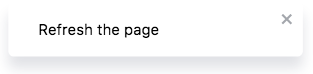
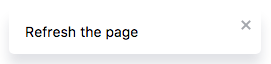
Rename classes

Changed region(s): [[0.0886, 0.3125, 0.5314, 0.625], [0.0295, 0.75, 0.9446, 0.8438], [0.8856, 0.1875, 0.9446, 0.4688]]

diff --git a/notifier.js b/notifier.js
@@ -1,4 +1,4 @@
-var notifier=function(e){function t(i){if(n[i])return n[i].exports;var r=n[i]={i:i,l:!1,exports:{}};return e[i].call(r.exports,r,r.exports,t),r.l=!0,r.exports}var n={};return t.m=e,t.c=n,t.i=function(e){return e},t.d=function(e,n,i){t.o(e,n)||Object.defineProperty(e,n,{configurable:!1,enumerable:!0,get:i})},t.n=function(e){var n=e&&e.__esModule?function(){return e.default}:function(){return e};return t.d(n,"a",n),n},t.o=function(e,t){return Object.prototype.hasOwnProperty.call(e,t)},t.p="",t(t.s=2)}([function(e,t,n){"use strict";e.exports=function(){var e={wrapper:"cdx-notifies",notification:"cdx-notifies__notification",crossBtn:"cdx-notifies__cross",okBtn:"cdx-notifies__button--confirm",cancelBtn:"cdx-notifies__button--cancel",input:"cdx-notifies__input",btn:"cdx-notifies__button",btnsWrapper:"cdx-notifies__btns-wrapper"},t=function(t){var n=document.createElement("DIV"),i=document.createElement("DIV"),r=t.message,c=t.style;return n.classList.add(e.notification),c&&n.classList.add(e.notification+"--"+c),n.innerHTML=r,i.classList.add(e.crossBtn),i.addEventListener("click",n.remove.bind(n)),n.appendChild(i),n};return{alert:t,confirm:function(n){var i=t(n),r=document.createElement("div"),c=document.createElement("button"),o=document.createElement("button"),a=i.querySelector(e.crossBtn),d=n.cancelHandler,s=n.okHandler;return r.classList.add(e.btnsWrapper),c.innerHTML=n.okText||"Confirm",o.innerHTML=n.cancelText||"Cancel",c.classList.add(e.btn),o.classList.add(e.btn),c.classList.add(e.okBtn),o.classList.add(e.cancelBtn),d&&"function"==typeof d&&(o.addEventListener("click",d),a.addEventListener("click",d)),s&&"function"==typeof s&&c.addEventListener("click",s),c.addEventListener("click",i.remove.bind(i)),o.addEventListener("click",i.remove.bind(i)),r.appendChild(c),r.appendChild(o),i.appendChild(r),i},prompt:function(n){var i=t(n),r=document.createElement("div"),c=document.createElement("button"),o=document.createElement("input"),a=i.querySelector(e.crossBtn),d=n.cancelHandler,s=n.okHandler;return r.classList.add(e.btnsWrapper),c.innerHTML=n.okText||"Ok",c.classList.add(e.btn),c.classList.add(e.okBtn),o.classList.add(e.input),n.placeholder&&o.setAttribute("placeholder",n.placeholder),n.default&&(o.value=n.default),n.inputType&&(o.type=n.inputType),d&&"function"==typeof d&&a.addEventListener("click",d),s&&"function"==typeof s&&c.addEventListener("click",function(){s(o.value)}),c.addEventListener("click",i.remove.bind(i)),r.appendChild(o),r.appendChild(c),i.appendChild(r),i},wrapper:function(){var t=document.createElement("DIV");return t.classList.add(e.wrapper),t}}}()},function(e,t){},function(e,t,n){"use strict";/*!
+var notifier=function(e){function t(r){if(n[r])return n[r].exports;var c=n[r]={i:r,l:!1,exports:{}};return e[r].call(c.exports,c,c.exports,t),c.l=!0,c.exports}var n={};return t.m=e,t.c=n,t.i=function(e){return e},t.d=function(e,n,r){t.o(e,n)||Object.defineProperty(e,n,{configurable:!1,enumerable:!0,get:r})},t.n=function(e){var n=e&&e.__esModule?function(){return e.default}:function(){return e};return t.d(n,"a",n),n},t.o=function(e,t){return Object.prototype.hasOwnProperty.call(e,t)},t.p="",t(t.s=2)}([function(e,t,n){"use strict";e.exports=function(){var e={wrapper:"cdx-notifies",notification:"cdx-notify",crossBtn:"cdx-notify__cross",okBtn:"cdx-notify__button--confirm",cancelBtn:"cdx-notify__button--cancel",input:"cdx-notify__input",btn:"cdx-notify__button",btnsWrapper:"cdx-notify__btns-wrapper"},t=function(t){var n=document.createElement("DIV"),r=document.createElement("DIV"),c=t.message,i=t.style;return n.classList.add(e.notification),i&&n.classList.add(e.notification+"--"+i),n.innerHTML=c,r.classList.add(e.crossBtn),r.addEventListener("click",n.remove.bind(n)),n.appendChild(r),n};return{alert:t,confirm:function(n){var r=t(n),c=document.createElement("div"),i=document.createElement("button"),a=document.createElement("button"),o=r.querySelector(e.crossBtn),d=n.cancelHandler,s=n.okHandler;return c.classList.add(e.btnsWrapper),i.innerHTML=n.okText||"Confirm",a.innerHTML=n.cancelText||"Cancel",i.classList.add(e.btn),a.classList.add(e.btn),i.classList.add(e.okBtn),a.classList.add(e.cancelBtn),d&&"function"==typeof d&&(a.addEventListener("click",d),o.addEventListener("click",d)),s&&"function"==typeof s&&i.addEventListener("click",s),i.addEventListener("click",r.remove.bind(r)),a.addEventListener("click",r.remove.bind(r)),c.appendChild(i),c.appendChild(a),r.appendChild(c),r},prompt:function(n){var r=t(n),c=document.createElement("div"),i=document.createElement("button"),a=document.createElement("input"),o=r.querySelector(e.crossBtn),d=n.cancelHandler,s=n.okHandler;return c.classList.add(e.btnsWrapper),i.innerHTML=n.okText||"Ok",i.classList.add(e.btn),i.classList.add(e.okBtn),a.classList.add(e.input),n.placeholder&&a.setAttribute("placeholder",n.placeholder),n.default&&(a.value=n.default),n.inputType&&(a.type=n.inputType),d&&"function"==typeof d&&o.addEventListener("click",d),s&&"function"==typeof s&&i.addEventListener("click",function(){s(a.value)}),i.addEventListener("click",r.remove.bind(r)),c.appendChild(a),c.appendChild(i),r.appendChild(c),r},wrapper:function(){var t=document.createElement("DIV");return t.classList.add(e.wrapper),t}}}()},function(e,t){},function(e,t,n){"use strict";/*!
  * Codex JavaScript Notification module
  * https://github.com/codex-team/js-notifier
  *
@@ -6,4 +6,4 @@ var notifier=function(e){function t(i){if(n[i])return n[i].exports;var r=n[i]={i
  *
  * MIT License | (c) Codex 2017
  */
-e.exports=function(){function e(){if(c)return!0;c=i.wrapper(),document.body.appendChild(c)}function t(t){if(t.message){e();var n=null,o=t.time||8e3;switch(t.type){case"confirm":n=i.confirm(t);break;case"prompt":n=i.prompt(t);break;default:n=i.alert(t),window.setTimeout(function(){n.remove()},o)}c.appendChild(n),n.classList.add(r)}}n(1);var i=n(0),r="cdx-notifies__notification--bounce-in",c=null;return{show:t}}()}]);
+e.exports=function(){function e(){if(i)return!0;i=r.wrapper(),document.body.appendChild(i)}function t(t){if(t.message){e();var n=null,a=t.time||8e3;switch(t.type){case"confirm":n=r.confirm(t);break;case"prompt":n=r.prompt(t);break;default:n=r.alert(t),window.setTimeout(function(){n.remove()},a)}i.appendChild(n),n.classList.add(c)}}n(1);var r=n(0),c="cdx-notify--bounce-in",i=null;return{show:t}}()}]);

diff --git a/notifier.css b/notifier.css
@@ -1,2 +1,2 @@
-.cdx-notifies{position:fixed;z-index:2;bottom:20px;left:20px;font-family:-apple-system,BlinkMacSystemFont,Segoe UI,Roboto,Oxygen,Ubuntu,Cantarell,Fira Sans,Droid Sans,Helvetica Neue,sans-serif}.cdx-notifies__notification{position:relative;width:220px;margin-top:15px;padding:13px 16px;background:#fff;box-shadow:0 11px 17px 0 rgba(23,32,61,.13);border-radius:5px;font-size:14px;line-height:1.4em;word-wrap:break-word}.cdx-notifies__notification:before{content:"";position:absolute;display:block;top:0;left:0;width:3px;height:calc(100% - 6px);margin:3px;border-radius:5px;background:transparent}.cdx-notifies__cross{position:absolute;top:5px;right:5px;width:10px;height:10px;padding:5px;opacity:.54;cursor:pointer}.cdx-notifies__cross:after,.cdx-notifies__cross:before{content:"";position:absolute;left:9px;top:5px;height:12px;width:2px;background:#575d67}.cdx-notifies__cross:before{-webkit-transform:rotate(-45deg);transform:rotate(-45deg)}.cdx-notifies__cross:after{-webkit-transform:rotate(45deg);transform:rotate(45deg)}.cdx-notifies__cross:hover{opacity:1}.cdx-notifies__btns-wrapper{display:-webkit-box;display:-ms-flexbox;display:flex;-webkit-box-orient:horizontal;-webkit-box-direction:normal;-ms-flex-flow:row nowrap;flex-flow:row nowrap;margin-top:5px}.cdx-notifies__button{border:none;border-radius:3px;font-size:13px;padding:5px 10px;cursor:pointer}.cdx-notifies__button:last-child{margin-left:10px}.cdx-notifies__button--cancel{background:#f2f5f7;box-shadow:0 2px 1px 0 rgba(16,19,29,0);color:#656b7c}.cdx-notifies__button--cancel:hover{background:#eee}.cdx-notifies__button--confirm{background:#34c992;box-shadow:0 1px 1px 0 rgba(18,49,35,.05);color:#fff}.cdx-notifies__button--confirm:hover{background:#33b082}.cdx-notifies__input{max-width:130px;padding:5px 10px;background:#f7f7f7;border:0;border-radius:3px;font-size:13px;color:#656b7c;outline:none}.cdx-notifies__input::-webkit-input-placeholder{color:#656b7c}.cdx-notifies__input:-ms-input-placeholder{color:#656b7c}.cdx-notifies__input::placeholder{color:#656b7c}.cdx-notifies__input:focus::-webkit-input-placeholder{color:rgba(101,107,124,.3)}.cdx-notifies__input:focus:-ms-input-placeholder{color:rgba(101,107,124,.3)}.cdx-notifies__input:focus::placeholder{color:rgba(101,107,124,.3)}@-webkit-keyframes bounceIn{0%{opacity:0;-webkit-transform:scale(.3);transform:scale(.3)}50%{opacity:1;-webkit-transform:scale(1.05);transform:scale(1.05)}70%{-webkit-transform:scale(.9);transform:scale(.9)}to{-webkit-transform:scale(1);transform:scale(1)}}@keyframes bounceIn{0%{opacity:0;-webkit-transform:scale(.3);transform:scale(.3)}50%{opacity:1;-webkit-transform:scale(1.05);transform:scale(1.05)}70%{-webkit-transform:scale(.9);transform:scale(.9)}to{-webkit-transform:scale(1);transform:scale(1)}}.cdx-notifies__notification--bounce-in{-webkit-animation-name:bounceIn;animation-name:bounceIn;-webkit-animation-duration:.6s;animation-duration:.6s;-webkit-animation-iteration-count:1;animation-iteration-count:1}.cdx-notifies__notification--success{background:#fafffe}.cdx-notifies__notification--success:before{background:#41ffb1}.cdx-notifies__notification--error{background:#fffbfb}.cdx-notifies__notification--error:before{background:#fb5d5d}
+.cdx-notifies{position:fixed;z-index:2;bottom:20px;left:20px;font-family:-apple-system,BlinkMacSystemFont,Segoe UI,Roboto,Oxygen,Ubuntu,Cantarell,Fira Sans,Droid Sans,Helvetica Neue,sans-serif}.cdx-notify{position:relative;width:220px;margin-top:15px;padding:13px 16px;background:#fff;box-shadow:0 11px 17px 0 rgba(23,32,61,.13);border-radius:5px;font-size:14px;line-height:1.4em;word-wrap:break-word}.cdx-notify:before{content:"";position:absolute;display:block;top:0;left:0;width:3px;height:calc(100% - 6px);margin:3px;border-radius:5px;background:transparent}.cdx-notify__cross{position:absolute;top:5px;right:5px;width:10px;height:10px;padding:5px;opacity:.54;cursor:pointer}.cdx-notify__cross:after,.cdx-notify__cross:before{content:"";position:absolute;left:9px;top:5px;height:12px;width:2px;background:#575d67}.cdx-notify__cross:before{-webkit-transform:rotate(-45deg);transform:rotate(-45deg)}.cdx-notify__cross:after{-webkit-transform:rotate(45deg);transform:rotate(45deg)}.cdx-notify__cross:hover{opacity:1}.cdx-notify__btns-wrapper{display:-webkit-box;display:-ms-flexbox;display:flex;-webkit-box-orient:horizontal;-webkit-box-direction:normal;-ms-flex-flow:row nowrap;flex-flow:row nowrap;margin-top:5px}.cdx-notify__button{border:none;border-radius:3px;font-size:13px;padding:5px 10px;cursor:pointer}.cdx-notify__button:last-child{margin-left:10px}.cdx-notify__button--cancel{background:#f2f5f7;box-shadow:0 2px 1px 0 rgba(16,19,29,0);color:#656b7c}.cdx-notify__button--cancel:hover{background:#eee}.cdx-notify__button--confirm{background:#34c992;box-shadow:0 1px 1px 0 rgba(18,49,35,.05);color:#fff}.cdx-notify__button--confirm:hover{background:#33b082}.cdx-notify__input{max-width:130px;padding:5px 10px;background:#f7f7f7;border:0;border-radius:3px;font-size:13px;color:#656b7c;outline:none}.cdx-notify__input::-webkit-input-placeholder{color:#656b7c}.cdx-notify__input:-ms-input-placeholder{color:#656b7c}.cdx-notify__input::placeholder{color:#656b7c}.cdx-notify__input:focus::-webkit-input-placeholder{color:rgba(101,107,124,.3)}.cdx-notify__input:focus:-ms-input-placeholder{color:rgba(101,107,124,.3)}.cdx-notify__input:focus::placeholder{color:rgba(101,107,124,.3)}@-webkit-keyframes bounceIn{0%{opacity:0;-webkit-transform:scale(.3);transform:scale(.3)}50%{opacity:1;-webkit-transform:scale(1.05);transform:scale(1.05)}70%{-webkit-transform:scale(.9);transform:scale(.9)}to{-webkit-transform:scale(1);transform:scale(1)}}@keyframes bounceIn{0%{opacity:0;-webkit-transform:scale(.3);transform:scale(.3)}50%{opacity:1;-webkit-transform:scale(1.05);transform:scale(1.05)}70%{-webkit-transform:scale(.9);transform:scale(.9)}to{-webkit-transform:scale(1);transform:scale(1)}}.cdx-notify--bounce-in{-webkit-animation-name:bounceIn;animation-name:bounceIn;-webkit-animation-duration:.6s;animation-duration:.6s;-webkit-animation-iteration-count:1;animation-iteration-count:1}.cdx-notify--success{background:#fafffe}.cdx-notify--success:before{background:#41ffb1}.cdx-notify--error{background:#fffbfb}.cdx-notify--error:before{background:#fb5d5d}
 /*# sourceMappingURL=notifier.css.map*/

diff --git a/src/css/base.css b/src/css/base.css
@@ -4,34 +4,34 @@
     bottom: 20px;
     left: 20px;
     font-family: -apple-system, BlinkMacSystemFont, "Segoe UI", "Roboto", "Oxygen", "Ubuntu", "Cantarell", "Fira Sans", "Droid Sans", "Helvetica Neue", sans-serif;
-
-    /* Default notification styles */
-    &__notification {
-         position: relative;
-         width: 220px;
-         margin-top: 15px;
-         padding: 13px 16px;
-         background: #fff;
-         box-shadow: 0 11px 17px 0 rgba(23,32,61,.13);
-         border-radius: 5px;
-         font-size: 14px;
-         line-height: 1.4em;
-         word-wrap: break-word;
-
-        &::before {
-            content: '';
-            position: absolute;
-            display: block;
-            top: 0;
-            left: 0;
-            width: 3px;
-            height: calc(100% - 6px);
-            margin: 3px;
-            border-radius: 5px;
-            background: transparent;
-        }
-
 }
+/* Default notification styles */
+.cdx-notify {
+     position: relative;
+     width: 220px;
+     margin-top: 15px;
+     padding: 13px 16px;
+     background: #fff;
+     box-shadow: 0 11px 17px 0 rgba(23,32,61,.13);
+     border-radius: 5px;
+     font-size: 14px;
+     line-height: 1.4em;
+     word-wrap: break-word;
+
+    &::before {
+        content: '';
+        position: absolute;
+        display: block;
+        top: 0;
+        left: 0;
+        width: 3px;
+        height: calc(100% - 6px);
+        margin: 3px;
+        border-radius: 5px;
+        background: transparent;
+    }
+
+
 
     /* Cross button */
     &__cross {

diff --git a/src/draw.js b/src/draw.js
@@ -2,13 +2,13 @@ module.exports = function () {
 
   const CSS_ = {
     wrapper : 'cdx-notifies',
-    notification : 'cdx-notifies__notification',
-    crossBtn: 'cdx-notifies__cross',
-    okBtn: 'cdx-notifies__button--confirm',
-    cancelBtn: 'cdx-notifies__button--cancel',
-    input: 'cdx-notifies__input',
-    btn: 'cdx-notifies__button',
-    btnsWrapper: 'cdx-notifies__btns-wrapper'
+    notification : 'cdx-notify',
+    crossBtn: 'cdx-notify__cross',
+    okBtn: 'cdx-notify__button--confirm',
+    cancelBtn: 'cdx-notify__button--cancel',
+    input: 'cdx-notify__input',
+    btn: 'cdx-notify__button',
+    btnsWrapper: 'cdx-notify__btns-wrapper'
   };
 
   let alert = function (options) {

diff --git a/src/notifies.js b/src/notifies.js
@@ -11,7 +11,7 @@ module.exports = (function () {
   require('./css/main.css');
 
   let draw = require('./draw.js'),
-      bounceInClass = 'cdx-notifies__notification--bounce-in';
+      bounceInClass = 'cdx-notify--bounce-in';
 
   let wrapper_ = null;
 

diff --git a/src/css/animation.css b/src/css/animation.css
@@ -18,7 +18,7 @@
     }
 }
 
-.cdx-notifies__notification--bounce-in {
+.cdx-notify--bounce-in {
     animation-name: bounceIn;
     animation-duration: 600ms;
     animation-iteration-count: 1;

diff --git a/src/css/notifies.css b/src/css/notifies.css
@@ -1,4 +1,4 @@
-.cdx-notifies__notification {
+.cdx-notify {
 
     &--success {
         background: #fafffe;

diff --git a/docs/styles.md b/docs/styles.md
@@ -5,20 +5,20 @@ You can use your own notifications design by rewriting the following classes
 
 #### Wrappers
 - `cdx-notifies` — wrapper for all notifications
-- `cdx-notifies__btns-wrapper` — wrapper for buttons using in confirm and prompt types
+- `cdx-notify__btns-wrapper` — wrapper for buttons using in confirm and prompt types
 
 #### Notification
-- `cdx-notifies__notification` — notification block
-- `cdx-notifies__cross` — notification cross button
+- `cdx-notify__notification` — notification block
+- `cdx-notify__cross` — notification cross button
 
 #### Buttons and input
-- `cdx-notifies__button` — general rules for buttons
-- `cdx-notifies__button--confirm` — confirm button rules
-- `cdx-notifies__button--cancel` — cancel button rules
-- `cdx-notifies__input` — prompt input rules
+- `cdx-notify__button` — general rules for buttons
+- `cdx-notify__button--confirm` — confirm button rules
+- `cdx-notify__button--cancel` — cancel button rules
+- `cdx-notify__input` — prompt input rules
 
 #### Animation
-- `cdx-notifies__notification--bounce-in`
+- `cdx-notify--bounce-in`
 
 ### Notification modifiers
 Passing `style` property to `show` method adds `'cdx-notifies__notification--' + style` class.
@@ -27,10 +27,10 @@ Using that feature you can create custom notification styles. We provide two sty
 #### Example
 This is rules for our default `success` notification 
 ```css
-.cdx-notifies__notification--success {
+.cdx-notify--success {
     background: #fafffe;
 }
-.cdx-notifies__notification--success::before {
+.cdx-notify__notification--success::before {
     background: #41ffb1;
 }
 ```

diff --git a/README.md b/README.md
@@ -1,6 +1,5 @@
 # JavaScript Notifier
-Light-weight notification module for your website
-
+Lightweight notification module for websites
 
 ## Instalation
 
@@ -22,7 +21,7 @@ You should pass there object with notification properties
 #### General properties
 - `message` — notification message (can contains HTML)
 - `type` — type of notification: `alert`, `confirm` or `prompt`. `Alert` by default
-- `style` — just add `'cdx-notifies__notification--' + style` class. We have some default styles: `success` and `error` 
+- `style` — just add `'cdx-notify--' + style` class. We have some default styles: `success` and `error` 
 - `time` — notification expire time in ms. Only for `alert` notifies expires (8s by default)
 
 #### Confirm notifications properties
